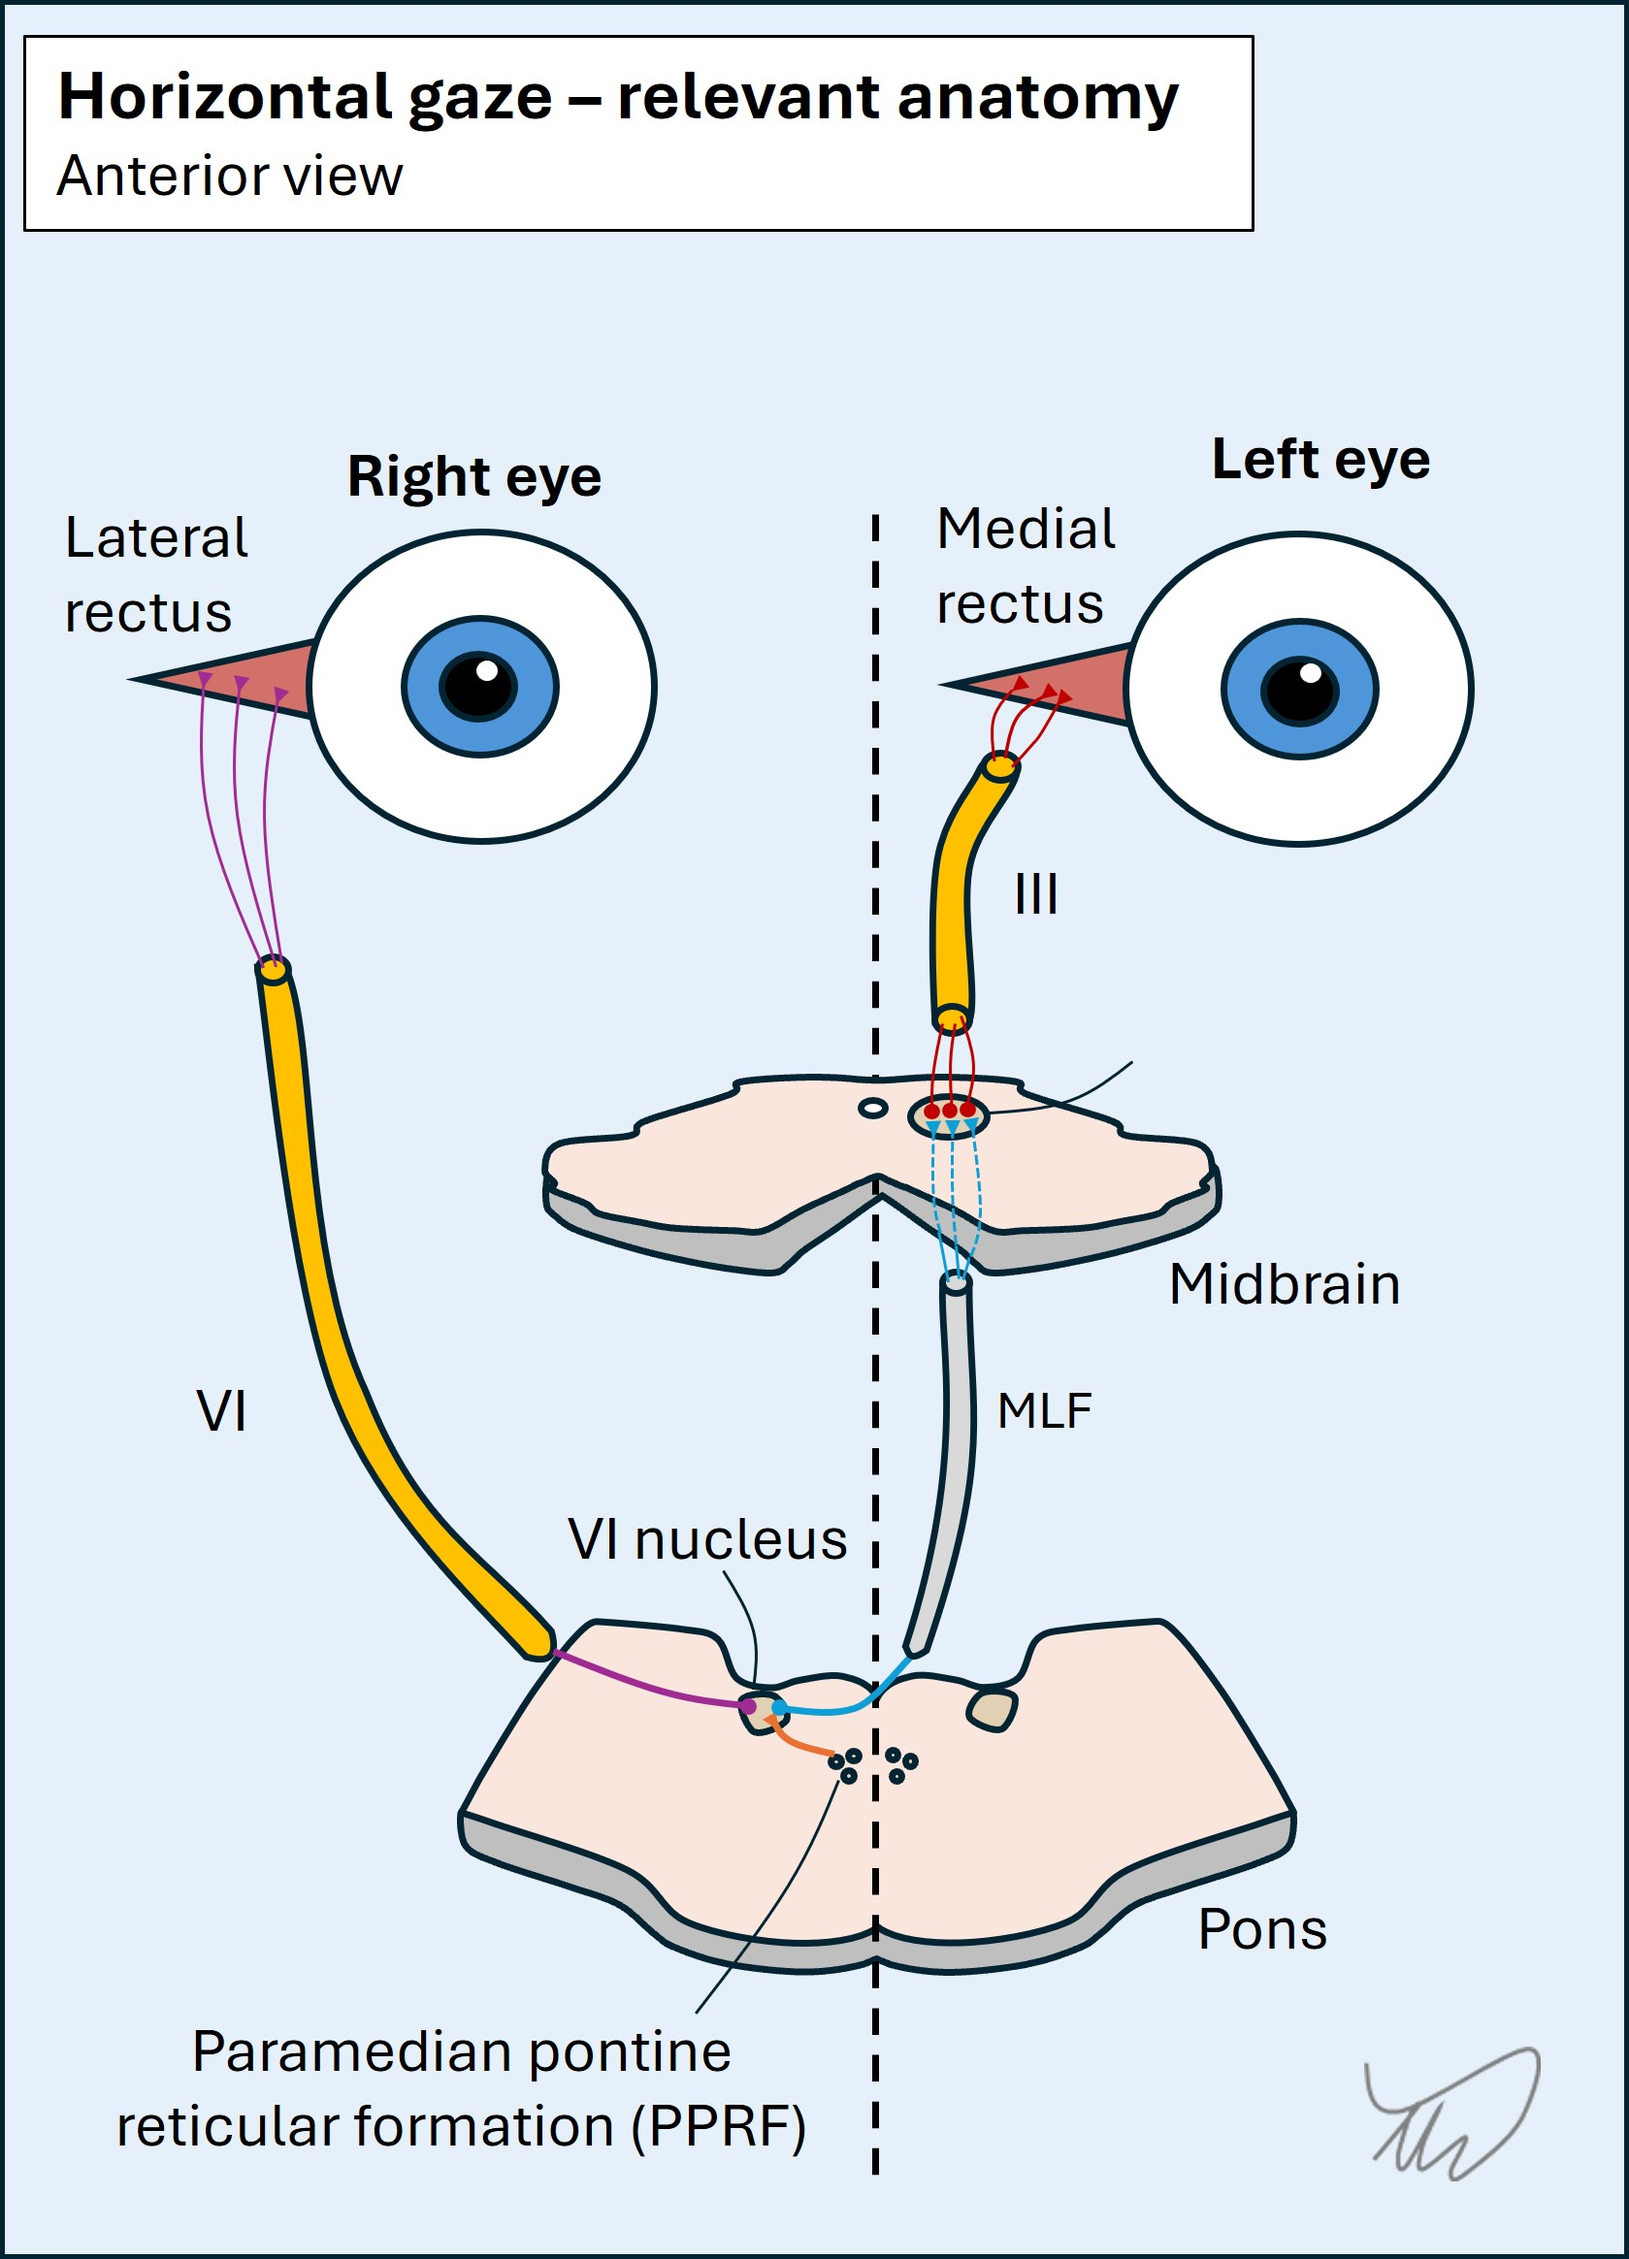
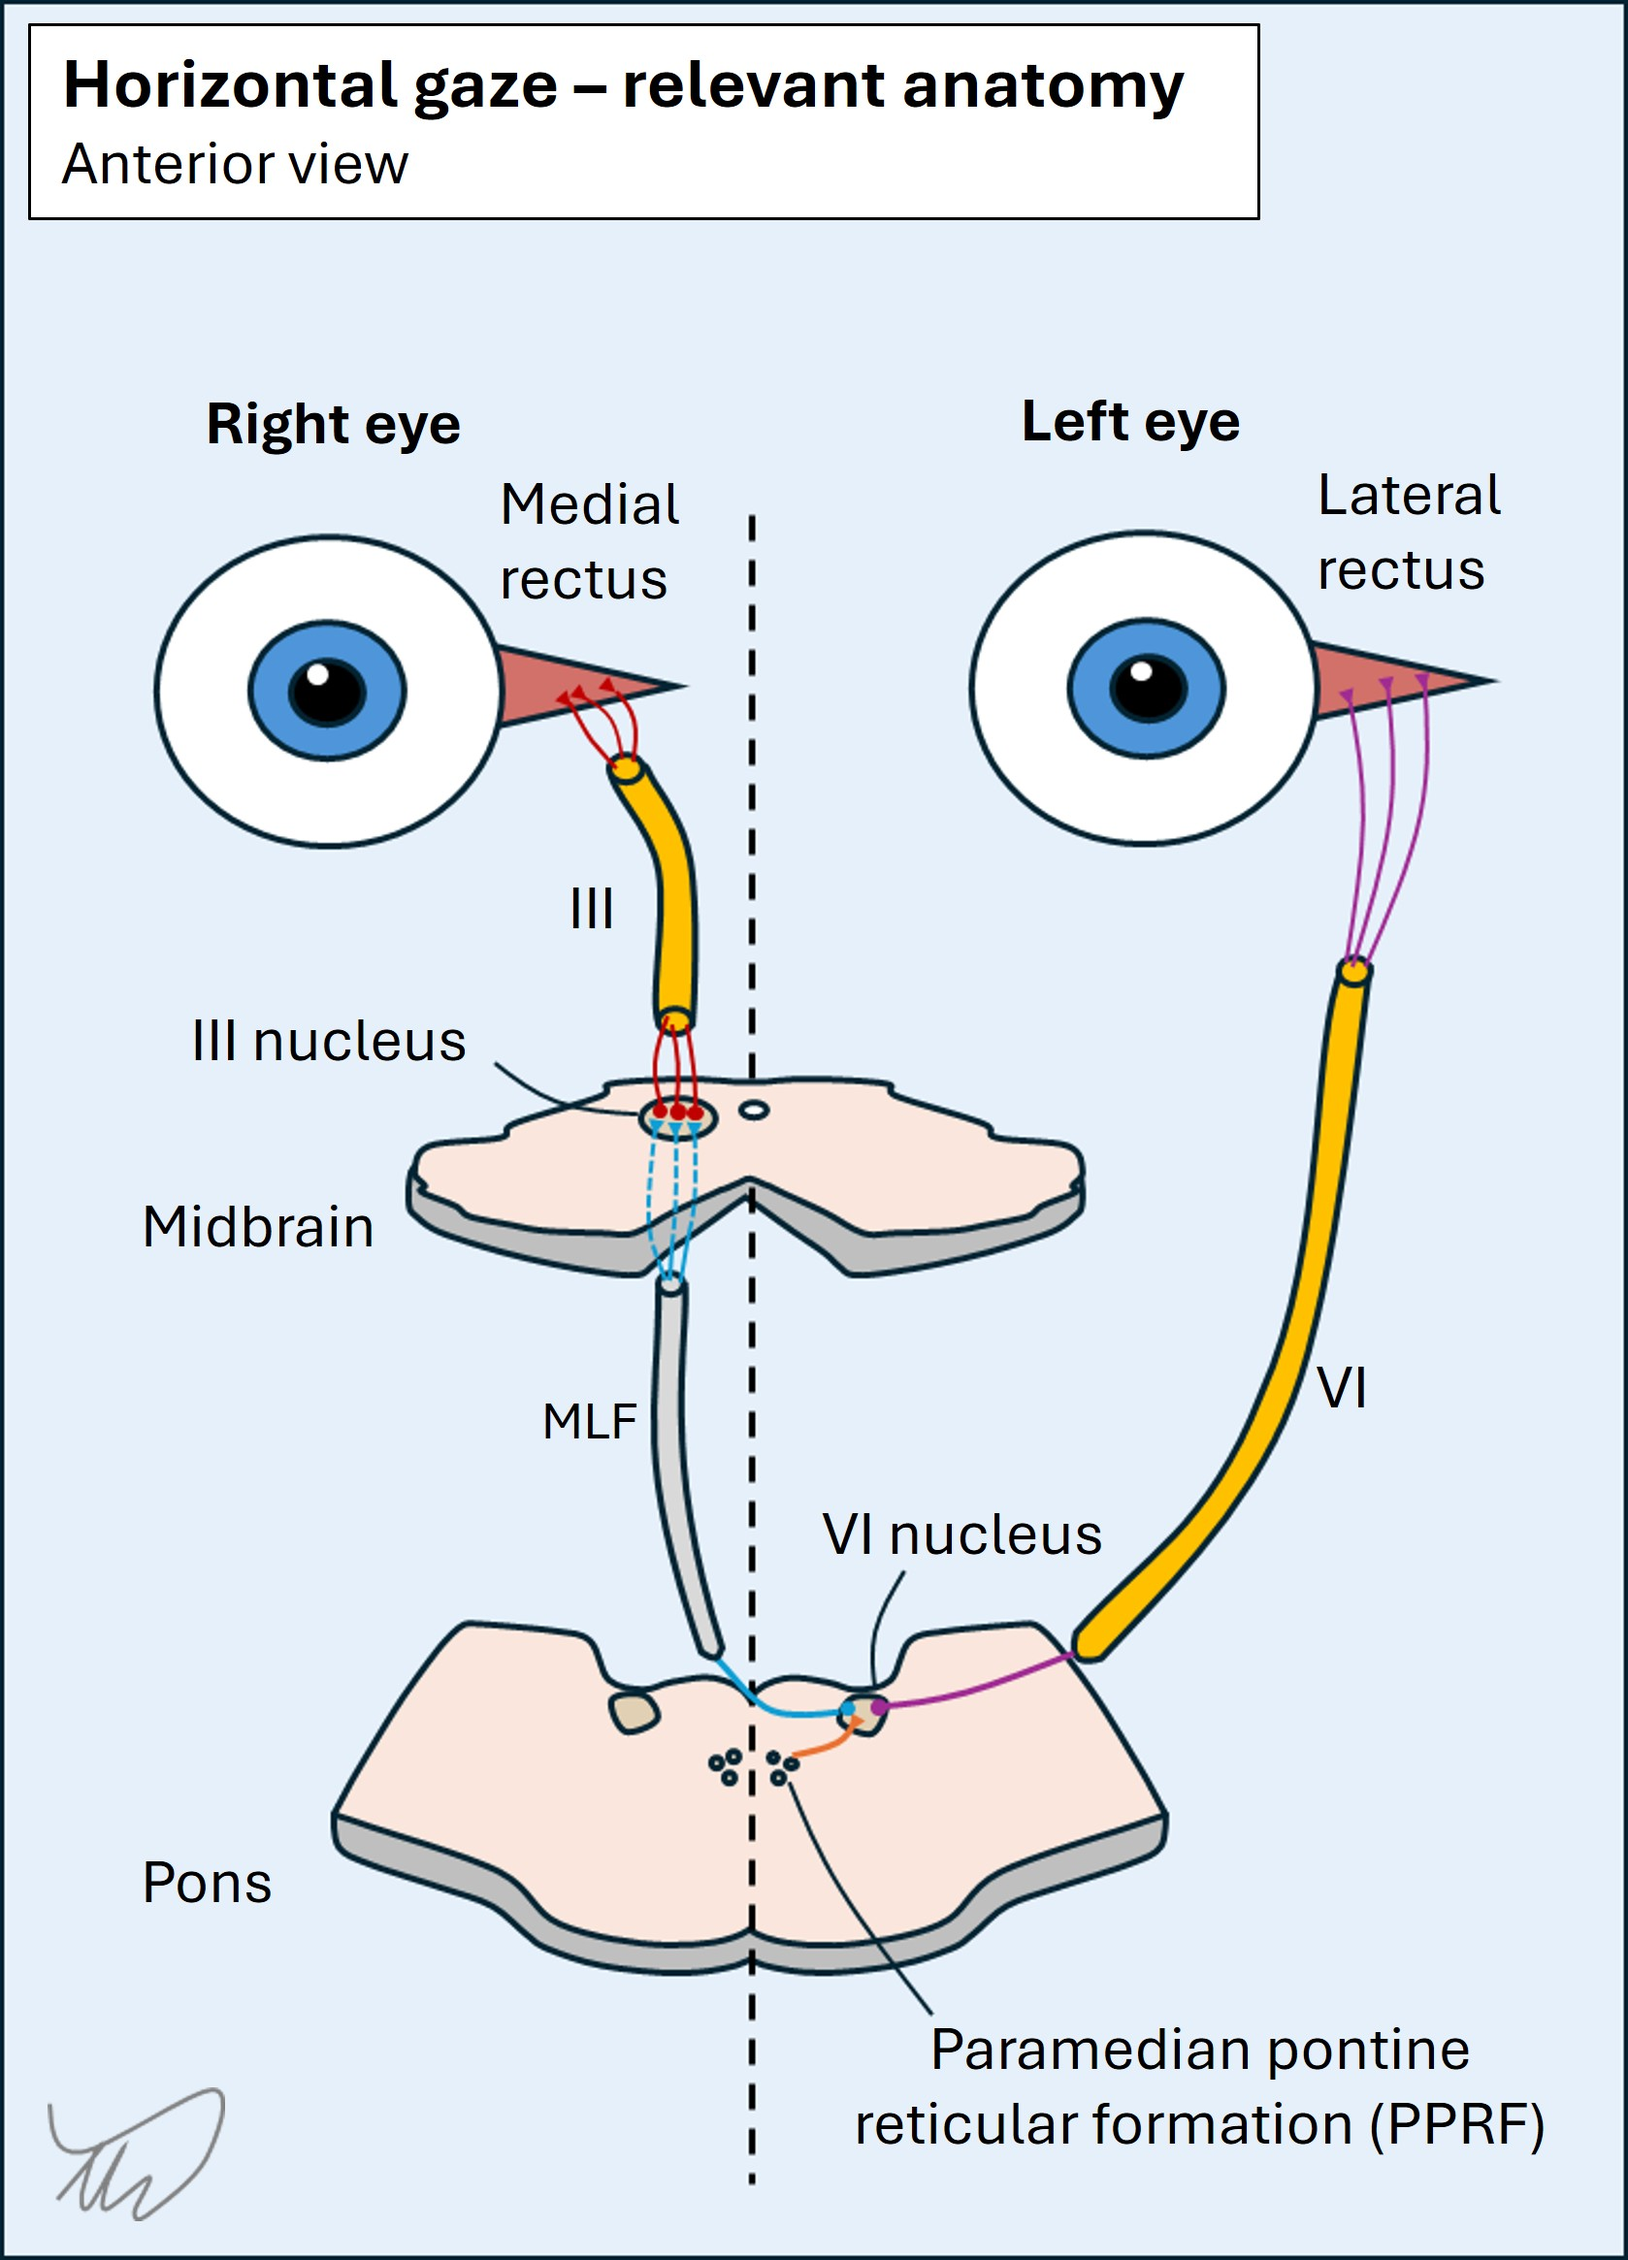
yes

diff --git a/cases/case 18/18.where.html b/cases/case 18/18.where.html
@@ -127,17 +127,15 @@ allowfullscreen>
 <img src="horizontal.gaze.jpg" alt="Horizontal gaze" height="700">
 <p></p>
 
-<img src="ino.jpg" alt="Internuclear ophthalmoplegia" height="700">
+<p>When there is a breakdown of the link between left VI and right III - due to a lesion in the right MLF - the result is that the left eye can abduct during left horizontal gaze, but the right eye cannot adduct. The left eye then has <i>abducting nystagmus</i> in the lateral position. This is internuclear ophthalmoplegia. The issue is with the communication between two nucle, hence it is <i>internuclear</i>.</p>
+
+<img src="ino.jpg" alt="Right internuclear ophthalmoplegia" height="700">
 <p></p>
-
-
-<p>Right internuclear ophthalmoplegia localises to the right medial longitudinal fasciculus. The issue is with the communication between the left VI and right III nuclei, hence it is <i>internuclear</i>. The left VI can stull fully abduct - but then because of the imbalance between sides, often develops nystagmus, drifting back towards the 'stuck' right eye which can't pass the midline - as is the case in this patient.  
-</p>
 
 <p>Note - adduction is not totally paralysed. III can still adduct the eye during convergence, which doesn't involve this pathway. The problem is <i>internuclear</i>, and only relevant to conjugate horizontal gaze. This is called <i>dissociation of convergence</i>. It's important to test convergence in people who can't adduct an eye, or either eye - bilateral INO is quite common, given how close together the MLFs are either side of the midline! 
 </p>
 
-<p>The overall effect is shown in the video below.</p>
+<p>The overall effect is shown in the video below. Note - this video is an example of a left INO, with failure of left eye ADduction, but our case has a right INO</p>
 
 
 <iframe width="560" height="315"
@@ -146,7 +144,7 @@ frameborder="0"
 allowfullscreen>
 </iframe>
 
-<p>Convergence helps us even more in localisation. A lesion in the MLF as it ascends through the pons leaves convergence intact - but a lesion higher up in the midbrain can lead to INO with impaired convergence, as the centres involved in convergence can also be damaged at this level. 
+<p>Convergence helps us further in localisation. A lesion in the MLF as it ascends through the pons leaves convergence intact - but a lesion higher up in the midbrain can lead to INO with impaired convergence, as the centres involved in convergence can also be damaged at this level. If convergence is affected, it suggests a lesion higher up, and is sometimes called an <i>anterior INO</i>. If convergence is intact the lesion is lower down - called a <i>posterior INO</i>.
 </p>
 
 <b>Other signs that aren't present</b>
@@ -157,11 +155,13 @@ allowfullscreen>
 <p>One example is when the PPRF is also affected on the same side. For a right-sided inferior dorsal pontine lesion the consequence is paralysis of right conjugate gaze (neither eye moves) and also of right eye adduction during conjugate left gaze (right INO). The only eye moving horizontally is the left eye which abducts. This combination is referred to as <i>one-and-a-half syndrome</i> - because there is paralysis of all of gaze to one side and half of it to the other. This is shown in the video below. 
 </p>
 
-<a href="https://www.youtube.com/watch?v=3mUmkmeo1Mo" target="_blank">
-<img src="https://img.youtube.com/vi/3mUmkmeo1Mo/hqdefault.jpg"  
-         alt="Watch video" 
-         style="width:100%; max-width:600px;">
-</a>
+
+<iframe width="560" height="315"
+src="https://www.youtube.com/embed/3mUmkmeo1Mo"
+frameborder="0"
+allowfullscreen>
+</iframe>
+
 
 <p>If other structures are then affected we may see additional combinations. One is when the facial nerve fibres are affected - they travel backwards and loop around the VI nucleus at the facial colliculus (which looks like a mound in the floor of the 4th ventricle).<p>
 
